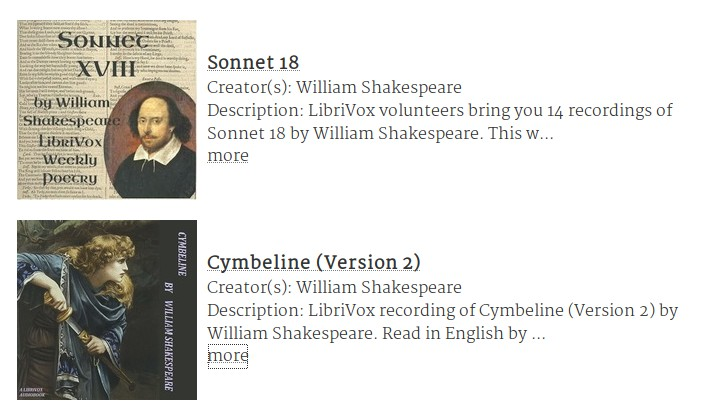
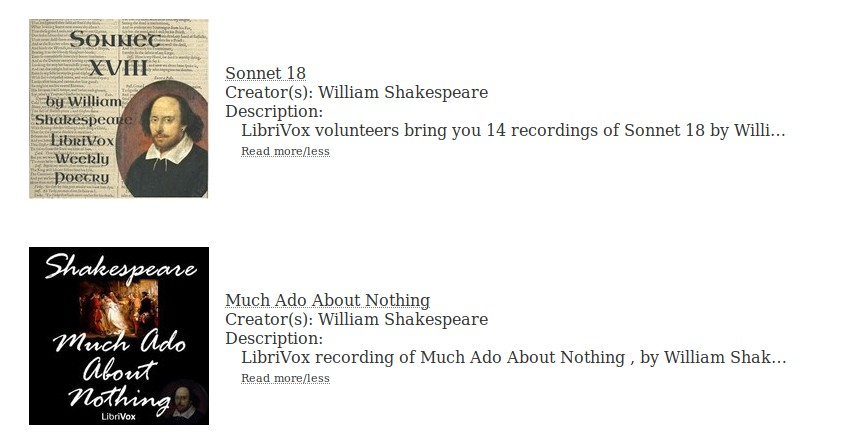
refactored

Changed region(s): [[0.0, 0.523, 0.9586, 0.9879], [0.0, 0.0291, 0.9586, 0.4939]]

diff --git a/_archivedotorg/librivox-random.md b/_archivedotorg/librivox-random.md
@@ -78,276 +78,107 @@ clicked that will expand and show the rest of the description. You can choose to
     font-weight: bold;
     font-size: 1.1em;
   }
-
+  .ellip {
+    white-space: nowrap;
+    overflow: hidden;
+    text-overflow: ellipsis;
+    width: 550px;
+  }
 {% endhighlight %}
 
-#### JavaScript/jQuery
+#### JavaScript
 
 ##### Notes for implementation:
 
 {:.code-notes}
 
-* Lines 20-180: This part of code is what does the description hiding and is
-  from [http://viralpatel.net](http://viralpatel.net).
 * Line : This is our request to the archive. We're concerned with `q=shakespeare+downloads%3A[1+TO+1000000000]+collection%3Alibrivoxaudio` We can modify a couple things in this line.
   * To change the topic: Replace `shakespeare` with something else. You can't use actual spaces here. If you want multiple words put a + between them e.g. `william+shakespeare`.
   * To remove the topic: You can remove Shakespeare altogether so it would be `q=downloads`
   * To only get popular things: 
 * Line 32: `getRandomNumbers(4, jsonResponseLength);` To change the number of items displayed change the `4` to any number that doesn't exceed the amount of results from the API.
+* Code updated 12/14/17 to use pure JavaScript and properly namespace itself.
 
 ##### The code itself:
 
-{% highlight javascript linenos %} 
-$(document).ready(function() {
-  /*
- * jQuery Shorten plugin 1.1.0
- *
- * Copyright (c) 2014 Viral Patel
- * http://viralpatel.net
- *
- * Licensed under the MIT license:
- *   http://www.opensource.org/licenses/mit-license.php
- */
+{% highlight javascript linenos %} var apis4librarians_librivoxRandom = (function() {
+  //Show our spinny preloader
+  document.getElementById("preloader").style.display = "";
+  //Gets the data
+  var scriptEl = document.createElement("script");
+  scriptEl.setAttribute(
+    "src",
+    "https://archive.org/advancedsearch.php?q=shakespeare+downloads%3A[1+TO+1000000000]+collection%3Alibrivoxaudio&fl[]=creator&fl[]=description&fl[]=downloads&fl[]=identifier&fl[]=title&sort[]=&sort[]=&sort[]=&rows=1000&page=1&output=json&callback=myJsonpCallback"
+  );
+  document.body.appendChild(scriptEl);
 
-/*
-** updated by Jeff Richardson
-** Updated to use strict,
-** IE 7 has a "bug" It is returning undefined when trying to reference string characters in this format
-** content[i]. IE 7 allows content.charAt(i) This works fine in all modern browsers.
-** I've also added brackets where they weren't added just for readability (mostly for me).
-*/
-(function($) {
-  $.fn.shorten = function(settings) {
-    "use strict";
+  window.myJsonpCallback = function(data) {
+    console.log(data);
+    //Removes our preloader
+    document.getElementById("preloader").style.display = "none";
+    let jsonContents = data.response.docs;
+    let jsonResponseLength = data.response.docs.length;
 
-    var config = {
-      showChars: 100,
-      minHideChars: 10,
-      ellipsesText: "...",
-      moreText: "more",
-      lessText: "less",
-      onLess: function() {},
-      onMore: function() {},
-      errMsg: null,
-      force: false
-    };
-
-    if (settings) {
-      $.extend(config, settings);
-    }
-
-    if ($(this).data("jquery.shorten") && !config.force) {
-      return false;
-    }
-    $(this).data("jquery.shorten", true);
-
-    $(document).off("click", ".morelink");
-
-    $(document).on(
-      {
-        click: function() {
-          var $this = $(this);
-          if ($this.hasClass("less")) {
-            $this.removeClass("less");
-            $this.html(config.moreText);
-            $this
-              .parent()
-              .prev()
-              .animate({ height: "0" + "%" }, function() {
-                $this
-                  .parent()
-                  .prev()
-                  .prev()
-                  .show();
-              })
-              .hide("fast", function() {
-                config.onLess();
-              });
-          } else {
-            $this.addClass("less");
-            $this.html(config.lessText);
-            $this
-              .parent()
-              .prev()
-              .animate({ height: "100" + "%" }, function() {
-                $this
-                  .parent()
-                  .prev()
-                  .prev()
-                  .hide();
-              })
-              .show("fast", function() {
-                config.onMore();
-              });
-          }
-          return false;
+    //This is the function to generate as many random numbers we want - with the amount of API results as the upper range.
+    var getRandomNumbers = function(howMany, upperLimit) {
+      var limit = howMany,
+        amount = 1,
+        lower_bound = 1,
+        upper_bound = upperLimit,
+        unique_random_numbers = [];
+      if (amount > limit) limit = amount; //Infinite loop if you want more unique natural numbers than exist in a given range
+      while (unique_random_numbers.length < limit) {
+        var random_number = Math.floor(
+          Math.random() * (upper_bound - lower_bound) + lower_bound
+        );
+        if (unique_random_numbers.indexOf(random_number) == -1) {
+          unique_random_numbers.push(random_number);
         }
-      },
-      ".morelink"
-    );
-
-    return this.each(function() {
-      var $this = $(this);
-
-      var content = $this.html();
-      var contentlen = $this.text().length;
-      if (contentlen > config.showChars + config.minHideChars) {
-        var c = content.substr(0, config.showChars);
-        if (c.indexOf("<") >= 0) {
-          // If there's HTML don't want to cut it
-          var inTag = false; // I'm in a tag?
-          var bag = ""; // Put the characters to be shown here
-          var countChars = 0; // Current bag size
-          var openTags = []; // Stack for opened tags, so I can close them later
-          var tagName = null;
-
-          for (var i = 0, r = 0; r <= config.showChars; i++) {
-            if (content[i] == "<" && !inTag) {
-              inTag = true;
-
-              // This could be "tag" or "/tag"
-              tagName = content.substring(i + 1, content.indexOf(">", i));
-
-              // If its a closing tag
-              if (tagName[0] == "/") {
-                if (tagName != "/" + openTags[0]) {
-                  config.errMsg =
-                    "ERROR en HTML: the top of the stack should be the tag that closes";
-                } else {
-                  openTags.shift(); // Pops the last tag from the open tag stack (the tag is closed in the retult HTML!)
-                }
-              } else {
-                // There are some nasty tags that don't have a close tag like <br/>
-                if (tagName.toLowerCase() != "br") {
-                  openTags.unshift(tagName); // Add to start the name of the tag that opens
-                }
-              }
-            }
-            if (inTag && content[i] == ">") {
-              inTag = false;
-            }
-
-            if (inTag) {
-              bag += content.charAt(i);
-            } else {
-              // Add tag name chars to the result
-              r++;
-              if (countChars <= config.showChars) {
-                bag += content.charAt(i); // Fix to ie 7 not allowing you to reference string characters using the []
-                countChars++;
-              } else {
-                // Now I have the characters needed
-                if (openTags.length > 0) {
-                  // I have unclosed tags
-                  //console.log('They were open tags');
-                  //console.log(openTags);
-                  for (j = 0; j < openTags.length; j++) {
-                    //console.log('Cierro tag ' + openTags[j]);
-                    bag += "</" + openTags[j] + ">"; // Close all tags that were opened
-
-                    // You could shift the tag from the stack to check if you end with an empty stack, that means you have closed all open tags
-                  }
-                  break;
-                }
-              }
-            }
-          }
-          c = $("<div/>")
-            .html(
-              bag + '<span class="ellip">' + config.ellipsesText + "</span>"
-            )
-            .html();
-        } else {
-          c += config.ellipsesText;
-        }
-
-        var html =
-          '<div class="shortcontent">' +
-          c +
-          '</div><div class="allcontent">' +
-          content +
-          '</div><span><a href="javascript://nop/" class="morelink">' +
-          config.moreText +
-          "</a></span>";
-
-        $this.html(html);
-        $this.find(".allcontent").hide(); // Hide all text
-        $(".shortcontent p:last", $this).css("margin-bottom", 0); //Remove bottom margin on last paragraph as it's likely shortened
       }
+      return unique_random_numbers;
+    };
+    //This is where we actually specify how many random numbers (and therefore how many books) we want generated.
+    var ourRandoms = getRandomNumbers(4, jsonResponseLength);
+
+    class LibrivoxBook {
+      constructor(theBookStuff) {
+        this.theBookStuff = theBookStuff;
+      }
+      getToAppending() {
+        var domsn = document.getElementById("librivox");
+        domsn.insertAdjacentHTML("beforeend", this.theBookStuff);
+      }
+    }
+    for (i = 0; i < ourRandoms.length; i++) {
+      let theBookStuff = `<li class=flexy-container><div class="left"><div class="librivox-pic"><a href="https://archive.org/details/${
+        jsonContents[ourRandoms[i]].identifier
+      }"><img src="https://archive.org/services/img/${
+        jsonContents[ourRandoms[i]].identifier
+      }"></a></div></div><div class="right">
+ <div class="librivox-title"><a href="https://archive.org/details/${
+   jsonContents[ourRandoms[i]].identifier
+ }">${jsonContents[ourRandoms[i]].title}</a></div>
+ <div class="librivox-creator">Creator(s): ${
+   jsonContents[ourRandoms[i]].creator
+ }</div>
+ <div class="librivox-description">Description:  <div class="item-description-content ellip" style="margin-left:1rem;">${
+   jsonContents[ourRandoms[i]].description
+ }</div><a class="description-toggler" style="cursor:pointer;font-size:11px;margin-left:1rem;">Read more/less</a></div>
+
+
+ </div>
+ </li>`;
+
+      let ttttt = new LibrivoxBook(theBookStuff);
+      ttttt.getToAppending();
+    }
+    document.body.addEventListener("click", e => {
+      if (!e.target.classList.contains("description-toggler")) return;
+      console.log(e.target.nextSibling);
+      e.target.previousSibling.classList.toggle("ellip");
     });
   };
-})(jQuery);
-//END of the shortener
-  
-  
-  //Show our spinny preloader
-    document.getElementById("preloader").style.display = "";
-    //Gets the data
-    $.getJSON(
-      "https://archive.org/advancedsearch.php?q=shakespeare+downloads%3A[1+TO+1000000000]+collection%3Alibrivoxaudio&fl[]=creator&fl[]=description&fl[]=downloads&fl[]=identifier&fl[]=title&sort[]=&sort[]=&sort[]=&rows=1000&page=1&output=json&callback=?",
-      function(data) {
-          console.log(data);
-        //Removes our preloader
-        document.getElementById("preloader").style.display = "none";
-        let jsonContents = data.response.docs;
-        let jsonResponseLength = data.response.docs.length;
-  
-        //This is the function to generate as many random numbers we want - with the amount of API results as the upper range.
-        var getRandomNumbers = function(howMany, upperLimit) {
-          var limit = howMany,
-            amount = 1,
-            lower_bound = 1,
-            upper_bound = upperLimit,
-            unique_random_numbers = [];
-          if (amount > limit) limit = amount; //Infinite loop if you want more unique natural numbers than exist in a given range
-          while (unique_random_numbers.length < limit) {
-            var random_number = Math.floor(
-              Math.random() * (upper_bound - lower_bound) + lower_bound
-            );
-            if (unique_random_numbers.indexOf(random_number) == -1) {
-              unique_random_numbers.push(random_number);
-            }
-          }
-          return unique_random_numbers;
-        };
-        //This is where we actually specify how many random numbers (and therefore how many books) we want generated.
-        var ourRandoms = getRandomNumbers(4, jsonResponseLength);
-  
-        class LibrivoxBook {
-          constructor(theBookStuff) {
-            this.theBookStuff = theBookStuff;
-          }
-          getToAppending() {
-            var domsn = document.getElementById("librivox");
-            domsn.insertAdjacentHTML("beforeend", this.theBookStuff);
-          }
-        }
-        for (i = 0; i < ourRandoms.length; i++) {
-          let theBookStuff = `<li class=flexy-container><div class="left"><div class="librivox-pic"><a href="https://archive.org/details/${
-            jsonContents[ourRandoms[i]].identifier
-          }"><img src="https://archive.org/services/img/${
-            jsonContents[ourRandoms[i]].identifier
-          }"></a></div></div><div class="right">
-        <div class="librivox-title"><a href="https://archive.org/details/${
-          jsonContents[ourRandoms[i]].identifier
-        }">${jsonContents[ourRandoms[i]].title}</a></div>
-        <div class="librivox-creator">Creator(s): ${
-          jsonContents[ourRandoms[i]].creator
-        }</div>
-        <div class="librivox-description">Description: ${
-          jsonContents[ourRandoms[i]].description
-        }</div>
- 
-        </div>
-        </li>`;
-  
-          let ttttt = new LibrivoxBook(theBookStuff);
-          ttttt.getToAppending();
-        }
-        $(".librivox-description").shorten();
-         
-      }
-    );
-  });
+})();
 
-});{% endhighlight %}
+
+{% endhighlight %}
